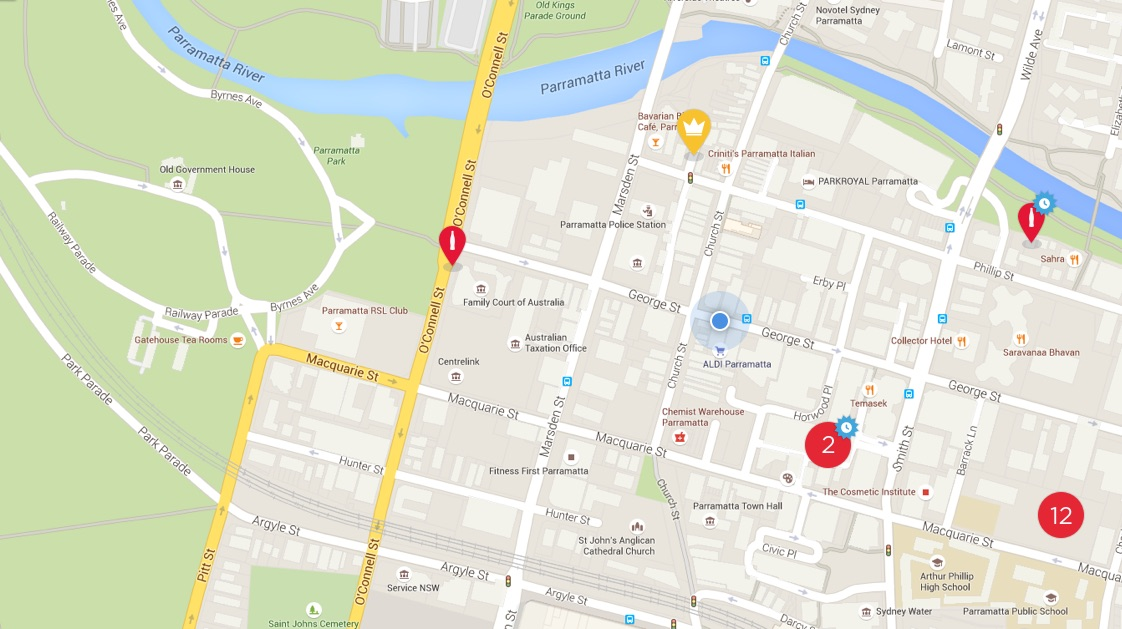
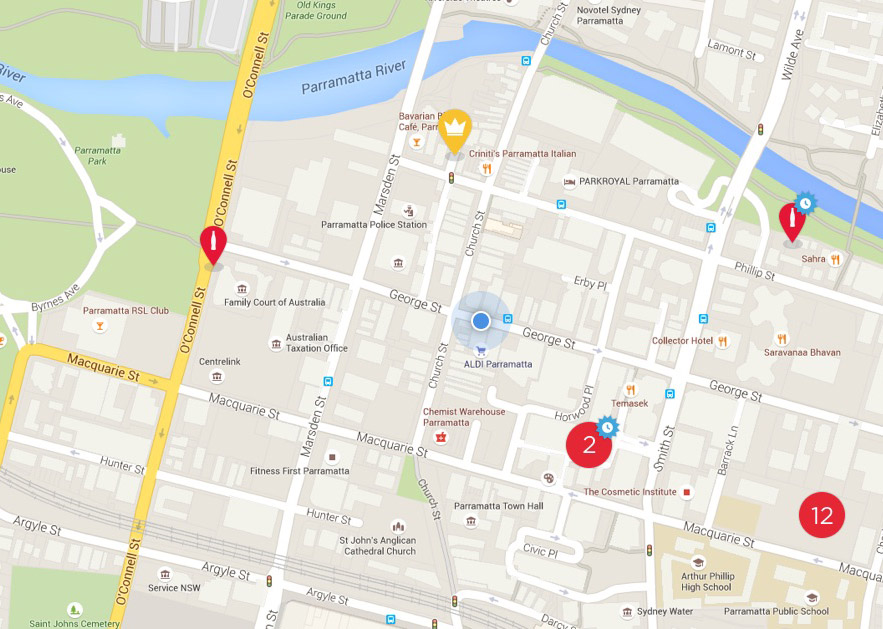
map section should be taller

diff --git a/assets/style.css b/assets/style.css
@@ -28,7 +28,7 @@ p.pad {
   .map {
     background-image: url('../images/map.jpg');
     background-position: center right;
-    background-size: auto 100%;
+    background-size: 60% auto;
     background-repeat: no-repeat;
     height: 100%;
   }
@@ -209,10 +209,33 @@ a, a:hover {
   text-align: center; 
 }
 .locations_left {
-  padding: 40px;
+  padding-top: 35px;
+  padding-bottom: 35px;
   background: #fff;
 }
 
+
+@media screen and (min-width: 920px){
+  .locations_left {
+    padding-top: 60px;
+    padding-bottom: 60px
+  }
+}
+
+
+@media screen and (min-width: 1270px){
+  .locations_left {
+    padding-top: 80px;
+    padding-bottom: 80px
+  }
+}
+
+@media screen and (min-width: 1509px){
+  .locations_left {
+    padding-top: 130px;
+    padding-bottom: 130px
+  }
+}
 
 /* ----- Rewards ----- */
 
@@ -220,6 +243,11 @@ a, a:hover {
   text-align: center;
   background-color: #960D2E;
   color: #fff;
+}
+
+.rewards_right {
+  padding-top: 25px;
+  padding-bottom: 25px
 }
 
 @media screen and (min-width: 920px){
@@ -247,7 +275,7 @@ a, a:hover {
 .rewards {
   background-image: url('../images/rewards_left.png');
   background-position: 5% center;
-  background-size: 45% auto;
+  background-size: 50% auto;
   background-repeat: no-repeat;
   height: 100%;
 }
